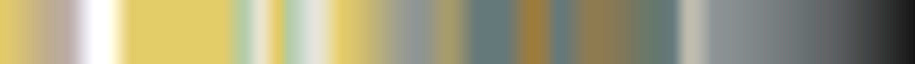
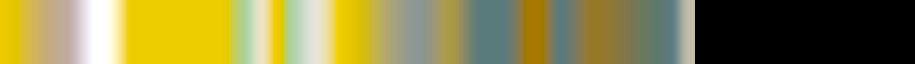
Tint Saturn rings to a warmer dusty orange glow

diff --git a/js/flower_of_life_3d.js b/js/flower_of_life_3d.js
@@ -145,12 +145,12 @@ class CinematicStrucity3D {
         const ringMat = new THREE.MeshStandardMaterial({
             map: ringColorTex,
             emissiveMap: ringColorTex, // The secret Braid fix: uses the texture to illuminate the dark side perfectly
-            emissive: new THREE.Color(0x444444), // Calibrated exactly to eliminate utter void without causing glare
+            emissive: new THREE.Color(0x50443a), // Lifted slightly into warm amber/orange to tint the void without blowing it out
             alphaMap: ringAlphaTex,
             transparent: true,
             depthWrite: false,
             side: THREE.DoubleSide,
-            color: 0x888888, // Stepped down to a true matte gray to decisively crush the glaring white blowout on the sunlit side
+            color: 0x998a7a, // Shifted from pure matte gray to a dusty, warm orange-tinted gray
             roughness: 0.8,
         });
 
